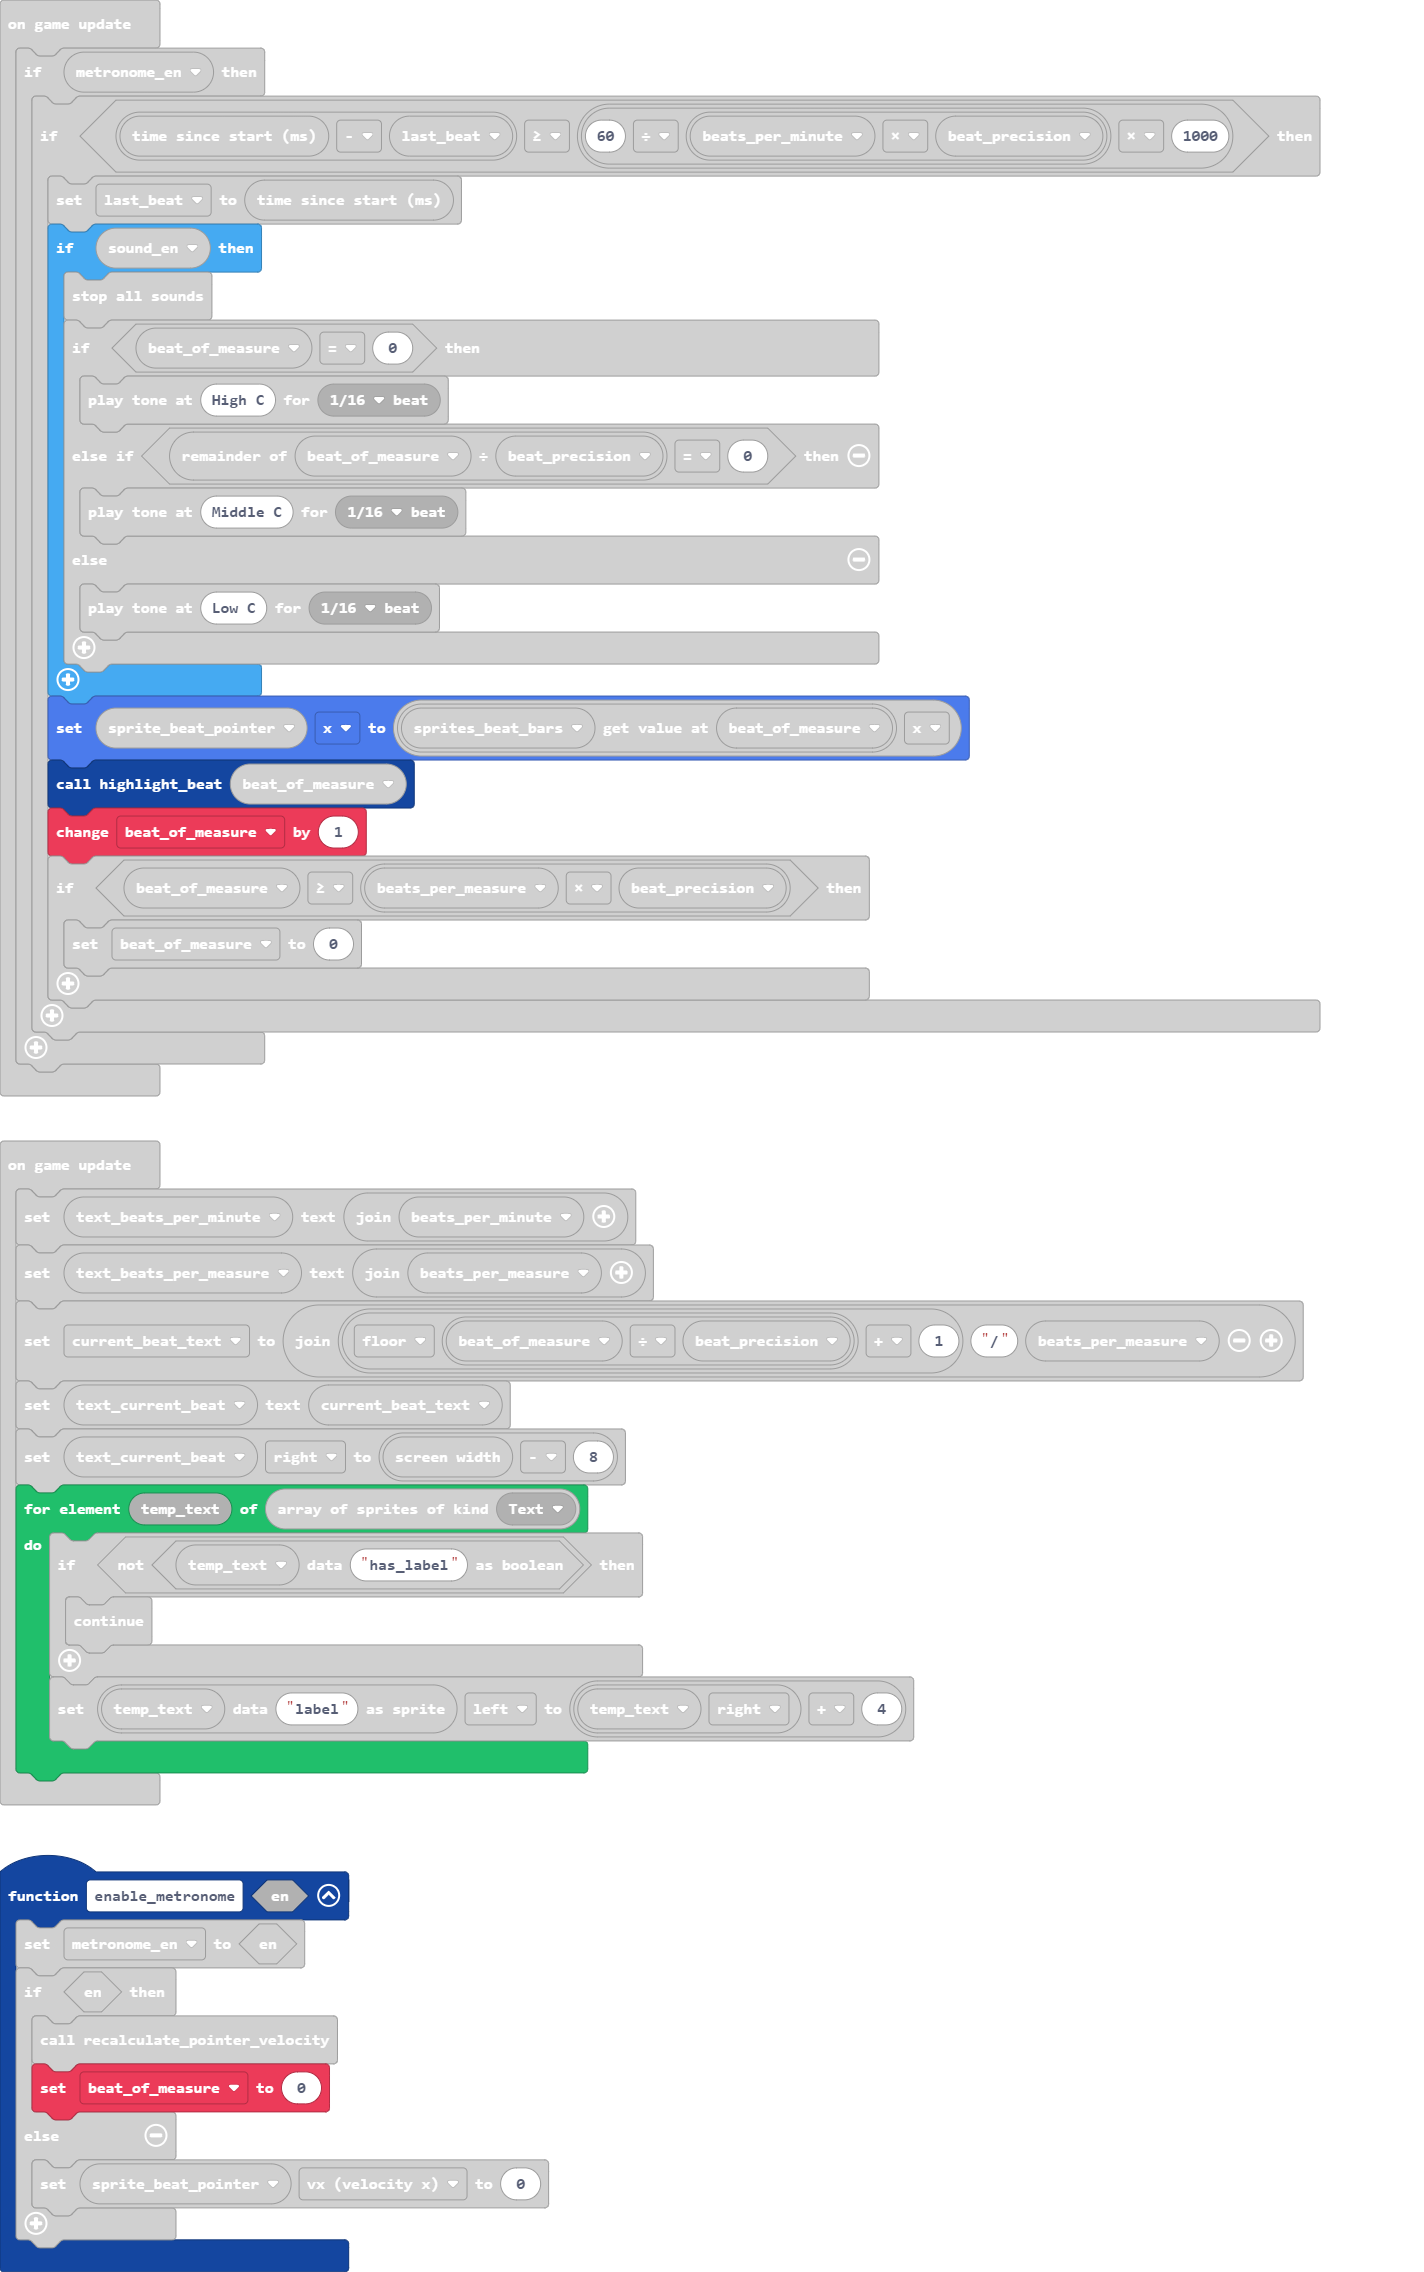
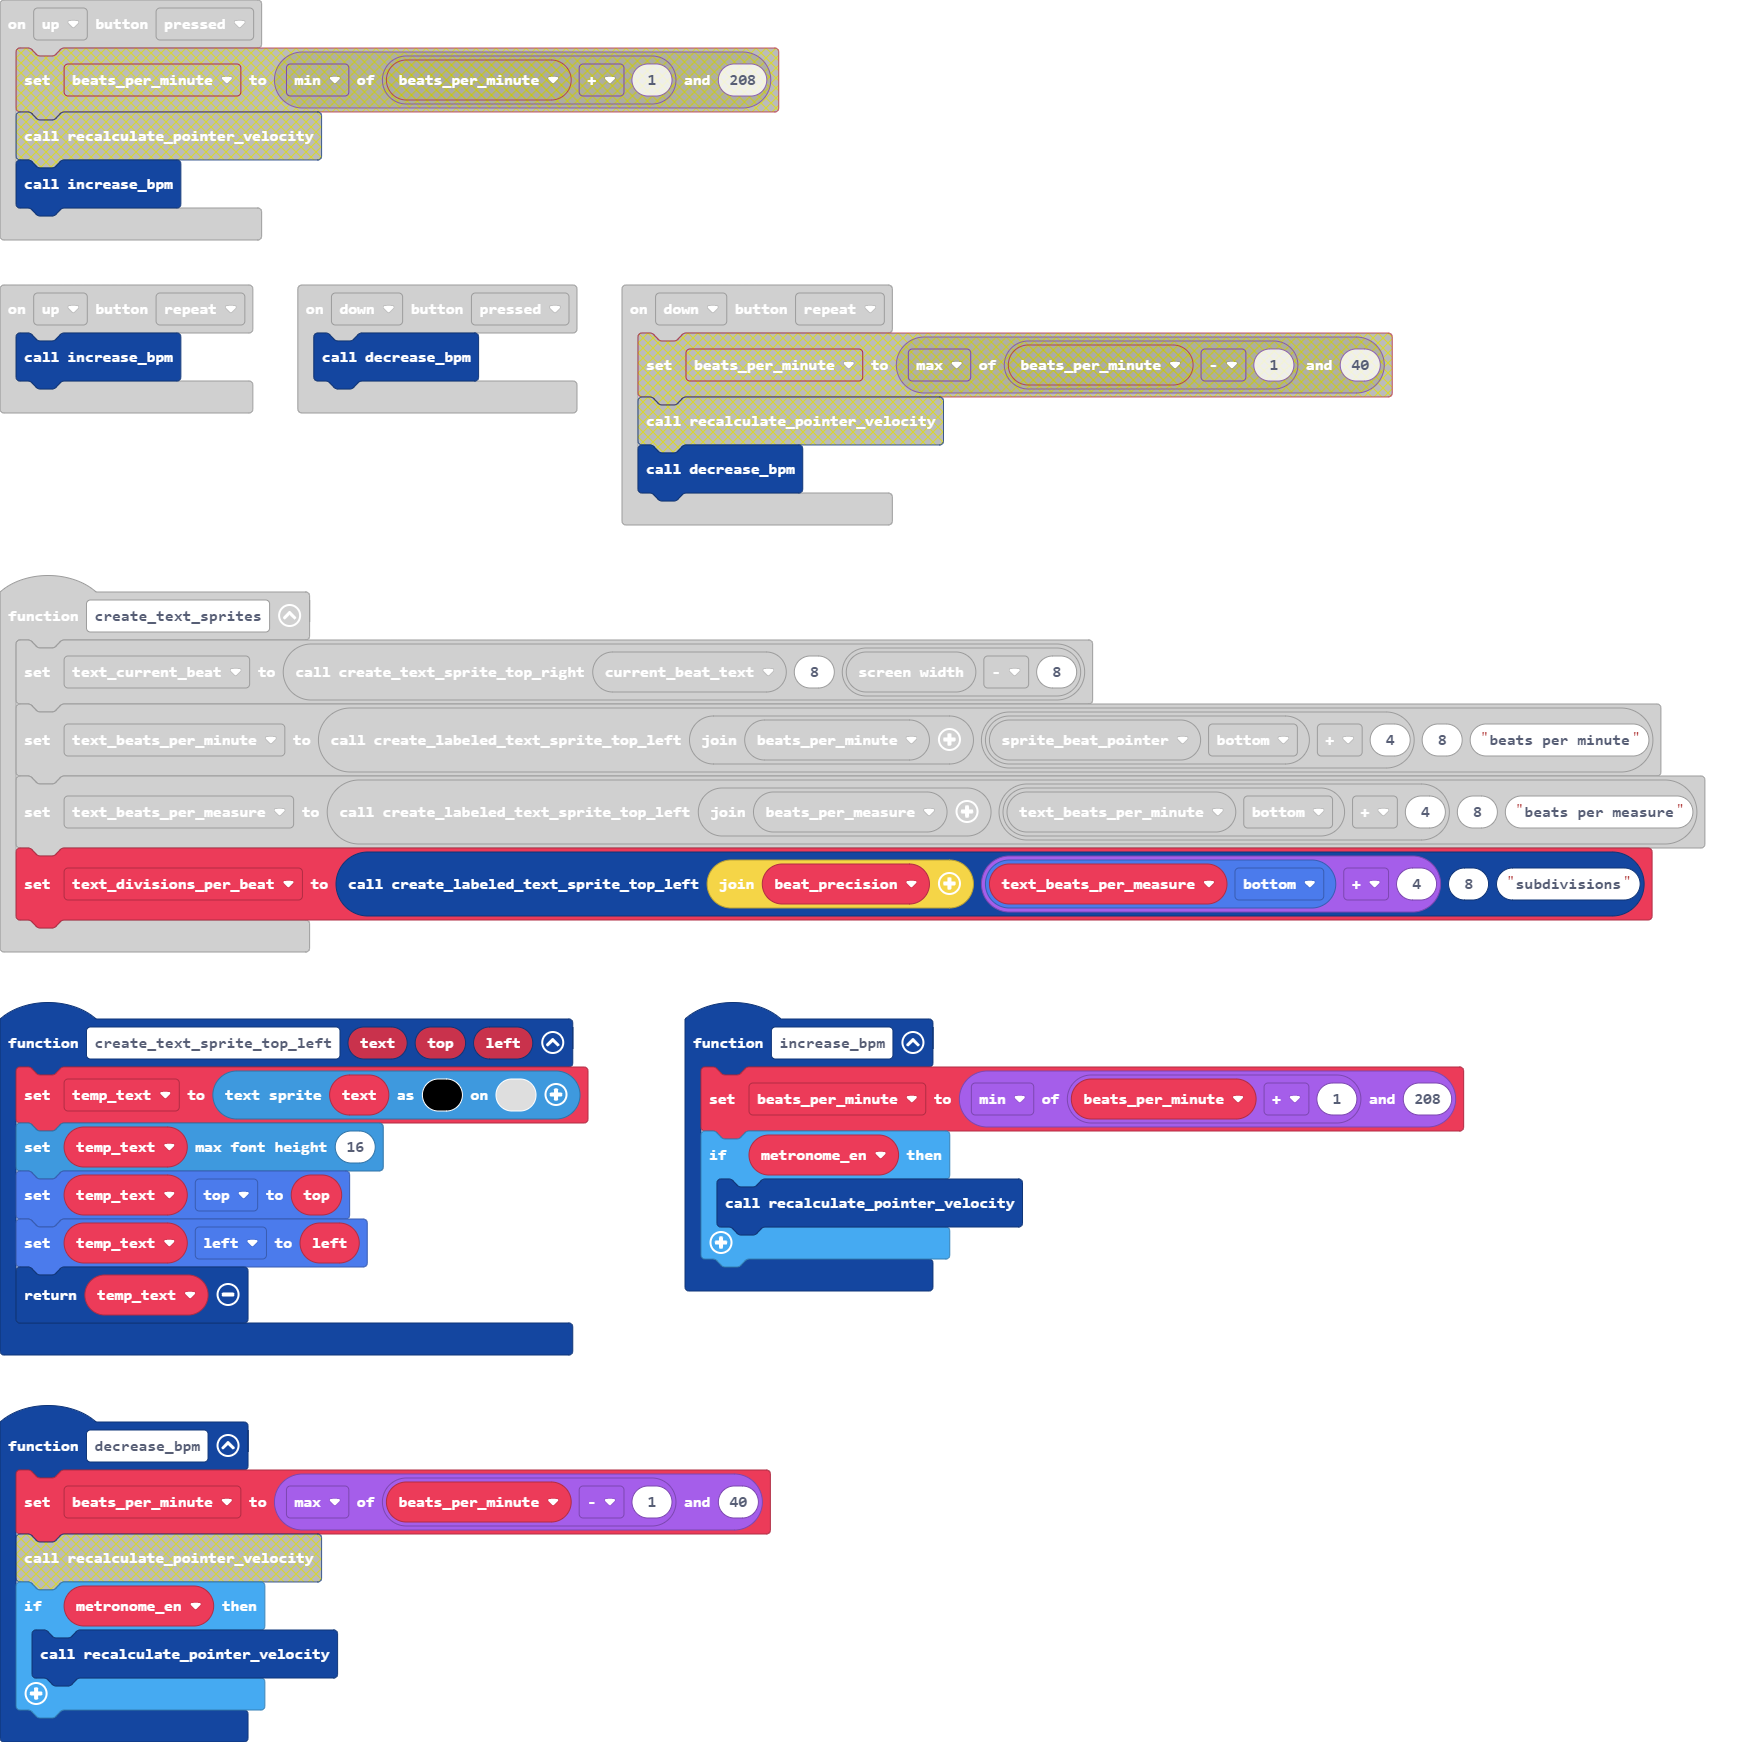
Show subdivions per beat

diff --git a/main.ts b/main.ts
@@ -27,8 +27,7 @@ function create_beat_pointer () {
     sprite_beat_pointer.x = sprites_beat_bars[0].x
 }
 controller.up.onEvent(ControllerButtonEvent.Pressed, function () {
-    beats_per_minute = Math.min(beats_per_minute + 1, 208)
-    recalculate_pointer_velocity()
+    increase_bpm()
 })
 controller.B.onEvent(ControllerButtonEvent.Pressed, function () {
     sound_en = !(sound_en)
@@ -40,10 +39,21 @@ function create_text_sprite_top_right (text: string, top: number, right: number)
     temp_text.right = right
     return temp_text
 }
+function decrease_bpm () {
+    beats_per_minute = Math.max(beats_per_minute - 1, 40)
+    if (metronome_en) {
+        recalculate_pointer_velocity()
+    }
+}
 controller.up.onEvent(ControllerButtonEvent.Repeated, function () {
-    beats_per_minute = Math.min(beats_per_minute + 1, 208)
-    recalculate_pointer_velocity()
+    increase_bpm()
 })
+function increase_bpm () {
+    beats_per_minute = Math.min(beats_per_minute + 1, 208)
+    if (metronome_en) {
+        recalculate_pointer_velocity()
+    }
+}
 controller.A.onEvent(ControllerButtonEvent.Pressed, function () {
     enable_metronome(!(metronome_en))
 })
@@ -63,6 +73,13 @@ function create_metronome_measure () {
         sprite_beatbar.top = 8
         sprites_beat_bars.push(sprite_beatbar)
     }
+}
+function create_text_sprite_top_left (text: string, top: number, left: number) {
+    temp_text = textsprite.create(text, 0, 15)
+    temp_text.setMaxFontHeight(16)
+    temp_text.top = top
+    temp_text.left = left
+    return temp_text
 }
 sprites.onCreated(SpriteKind.Text, function (sprite) {
     sprite.setFlag(SpriteFlag.Ghost, true)
@@ -85,14 +102,13 @@ function create_text_sprites () {
     text_current_beat = create_text_sprite_top_right(current_beat_text, 8, scene.screenWidth() - 8)
     text_beats_per_minute = create_labeled_text_sprite_top_left("" + beats_per_minute, sprite_beat_pointer.bottom + 4, 8, "beats per minute")
     text_beats_per_measure = create_labeled_text_sprite_top_left("" + beats_per_measure, text_beats_per_minute.bottom + 4, 8, "beats per measure")
+    text_divisions_per_beat = create_labeled_text_sprite_top_left("" + beat_precision, text_beats_per_measure.bottom + 4, 8, "subdivisions")
 }
 controller.down.onEvent(ControllerButtonEvent.Repeated, function () {
-    beats_per_minute = Math.max(beats_per_minute - 1, 40)
-    recalculate_pointer_velocity()
+    decrease_bpm()
 })
 controller.down.onEvent(ControllerButtonEvent.Pressed, function () {
-    beats_per_minute = Math.max(beats_per_minute - 1, 40)
-    recalculate_pointer_velocity()
+    decrease_bpm()
 })
 function create_labeled_text_sprite_top_left (text: string, top: number, left: number, label: string) {
     temp_text = textsprite.create(text, 0, 15)
@@ -125,6 +141,7 @@ function highlight_beat (beat: number) {
         }
     }
 }
+let text_divisions_per_beat: TextSprite = null
 let text_beats_per_measure: TextSprite = null
 let text_beats_per_minute: TextSprite = null
 let sprite_beatbar: Sprite = null
